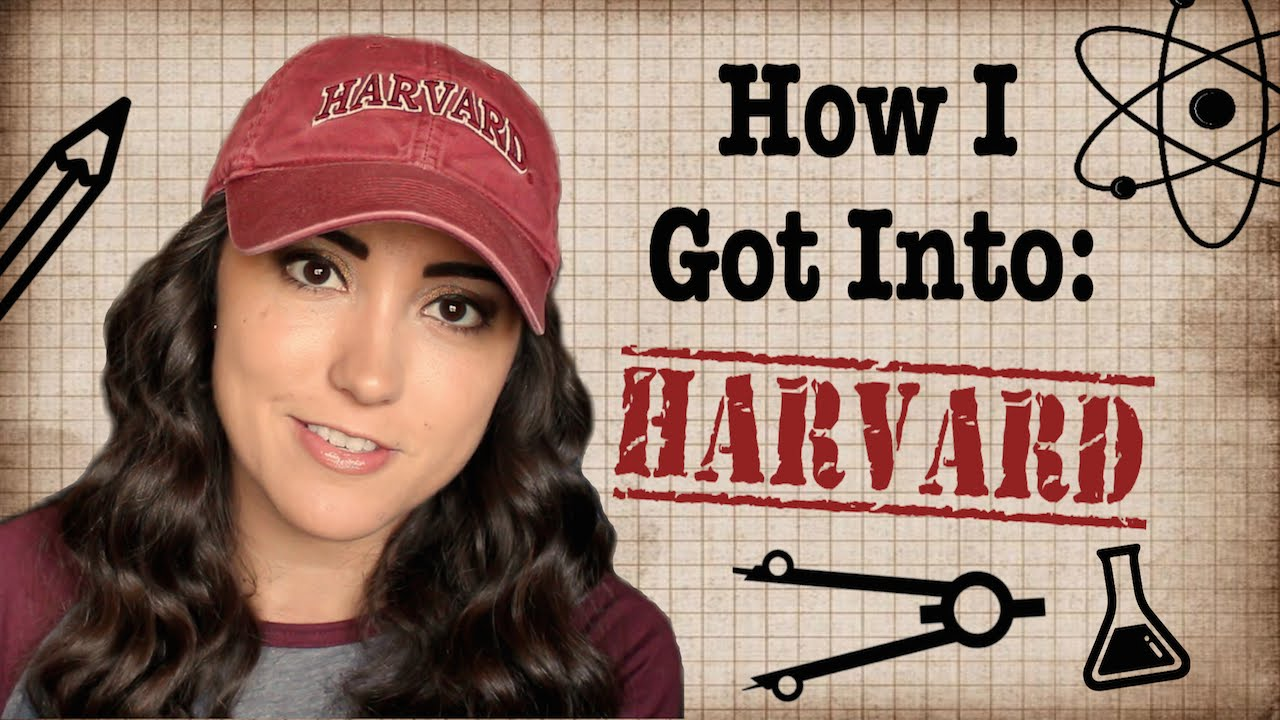
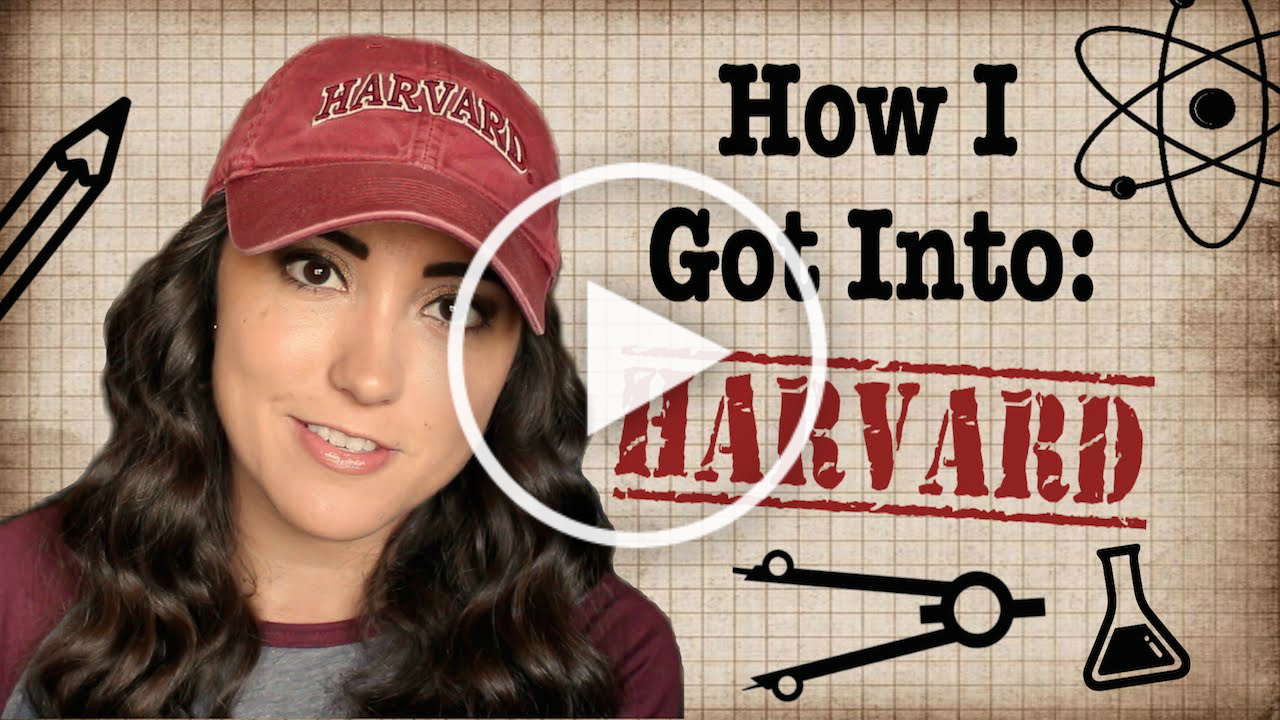
c

Changed region(s): [[0.3438, 0.2139, 0.6562, 0.7944], [0.4375, 0.3972, 0.5938, 0.6111]]

diff --git a/videos.html b/videos.html
@@ -19,8 +19,11 @@
 		</div>
 		<div>
 		<!-- How I Got Into Harvard -->
-		<img src="Thumbnails/52play.jpg" style="width:14.4em;height:8.1em;"/>
+		<img src="Thumbnails/52.jpg" style="width:14.4em;height:8.1em;"/>
 
+		<!-- AMERICAN GOES TO CANADA -->
+		<img src="Thumbnails/51.jpg" style="width:14.4em;height:8.1em;"/>
+		
 	<!-- How I Got Into Harvard -->
 	<iframe width="560" height="315" src="https://www.youtube.com/embed/sAHE5cdOwXA" frameborder="0" allowfullscreen></iframe>
 
